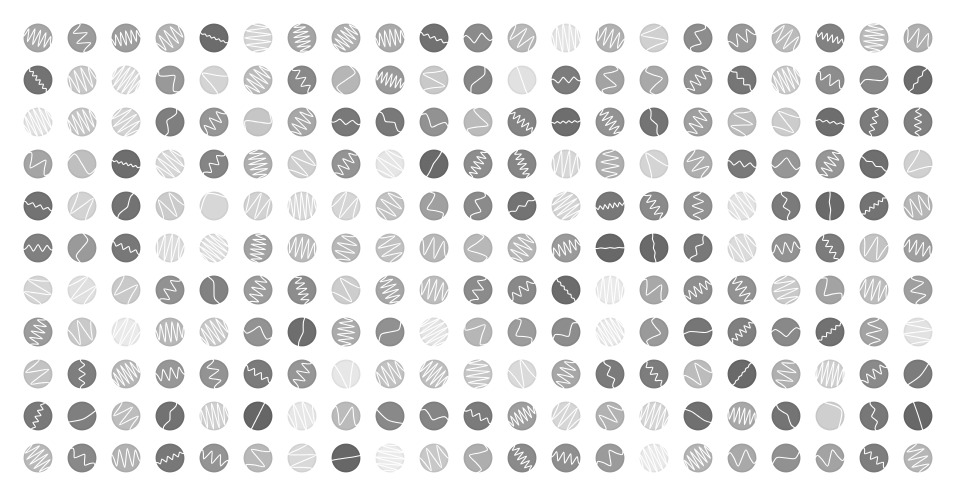
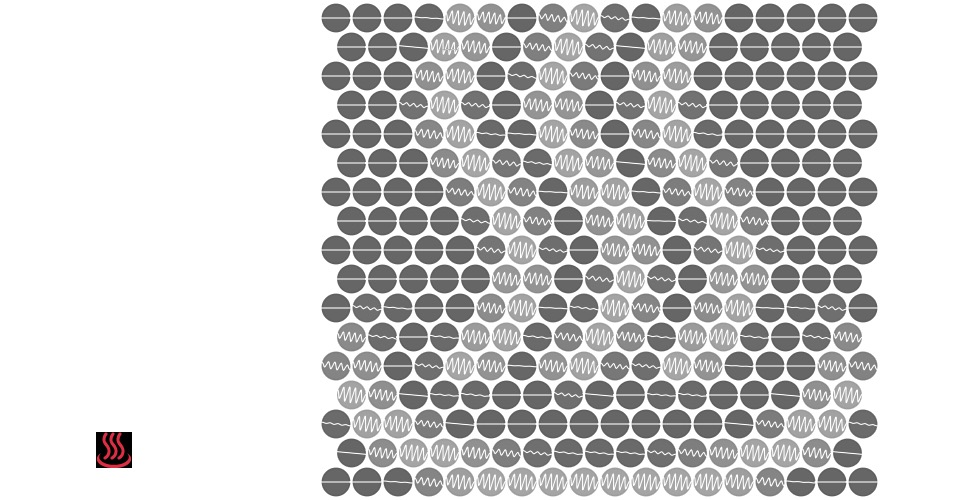
Final commit

diff --git a/glyph.js b/glyph.js
@@ -1,9 +1,9 @@
 /* change default application behavior */
-var defaultMode = "edit";
+var defaultMode = "image";
 var defaultSize = 32;
 var defaultDisplay = "glyph"
-var defaultEmoji = 100;
-var backgroundColor = "hsb(0, 0%, 100%)";
+var defaultEmoji = 797;
+var backgroundColor = "hsb(0, 0%,  100%)";
 
 function Glyph() {
   /*

diff --git a/README.md b/README.md
@@ -2,8 +2,32 @@
 
 ### Color Glyphs
 
-Further Development - Concept Two
+Final Design - Wave Glyph
 
-- Refined glyph to more or less a final state, fixed few minor details, such as moving start and points for the wave out a bit so glyph wave is cleaner/smoother.
 
-- Added a outline of sorts to background circle, by increasing fill lightness by 5 and drawing a smaller circle in the exsisting one.
+The final design for my glyph can be seen above.
+
+// Glyph Description 
+
+The design uses wave geometry to convey colour through a monochrome glyph. With each value from the HSL colour value controlling an aspect of the glyph.
+
+Hue - Controls the rotation of the glyph, thus making it so that the waves of colours with the same hue when next to each other will appear to connect and form one larger wave.
+
+Saturation - Controls the number of peaks in the wave, so a higher saturation creates a more intense wave, and a colour with no saturation will only have the one point.
+
+Lightness - Controls the amplitude of the wave, with colours of zero lightness i.e. black, appear as a flat line. The lightness also controls the background circles lightness. This helps the glyphs be easily differentiable.
+
+Overall I was quite happy with how the glyph turned out, similar colours are easy to find and the oddball can be found with relative ease. After looking at the final design, it does come across as quite simple due to the only real visual elements that change being the wave, but ultimately that fits with my initial goal of a simple yet effective glyph.
+
+// Process Summary
+
+I knew from the start that I wanted a simple glyph that was still easy to read, therefore my three initial concepts were quite simple in design but still communicated colour efficiently. Out of my three concepts I decided to choose the one that I believed would be the most challenged to code, and therefore be the more rewarding.
+
+After beginning the code I realised the basics of the design were quite simple, it was the details that proved to be more difficult, such as creating a single wave, rather than the two mirrored waves.
+
+The value mapping was also changed upon development, as the initial design didn't convey colour as I intended, with black not appearing as a flat line for example.
+
+Lastly the implementation of the background helped further the communication of colour through a direct visual communication of the colours lightness. 
+
+
+
